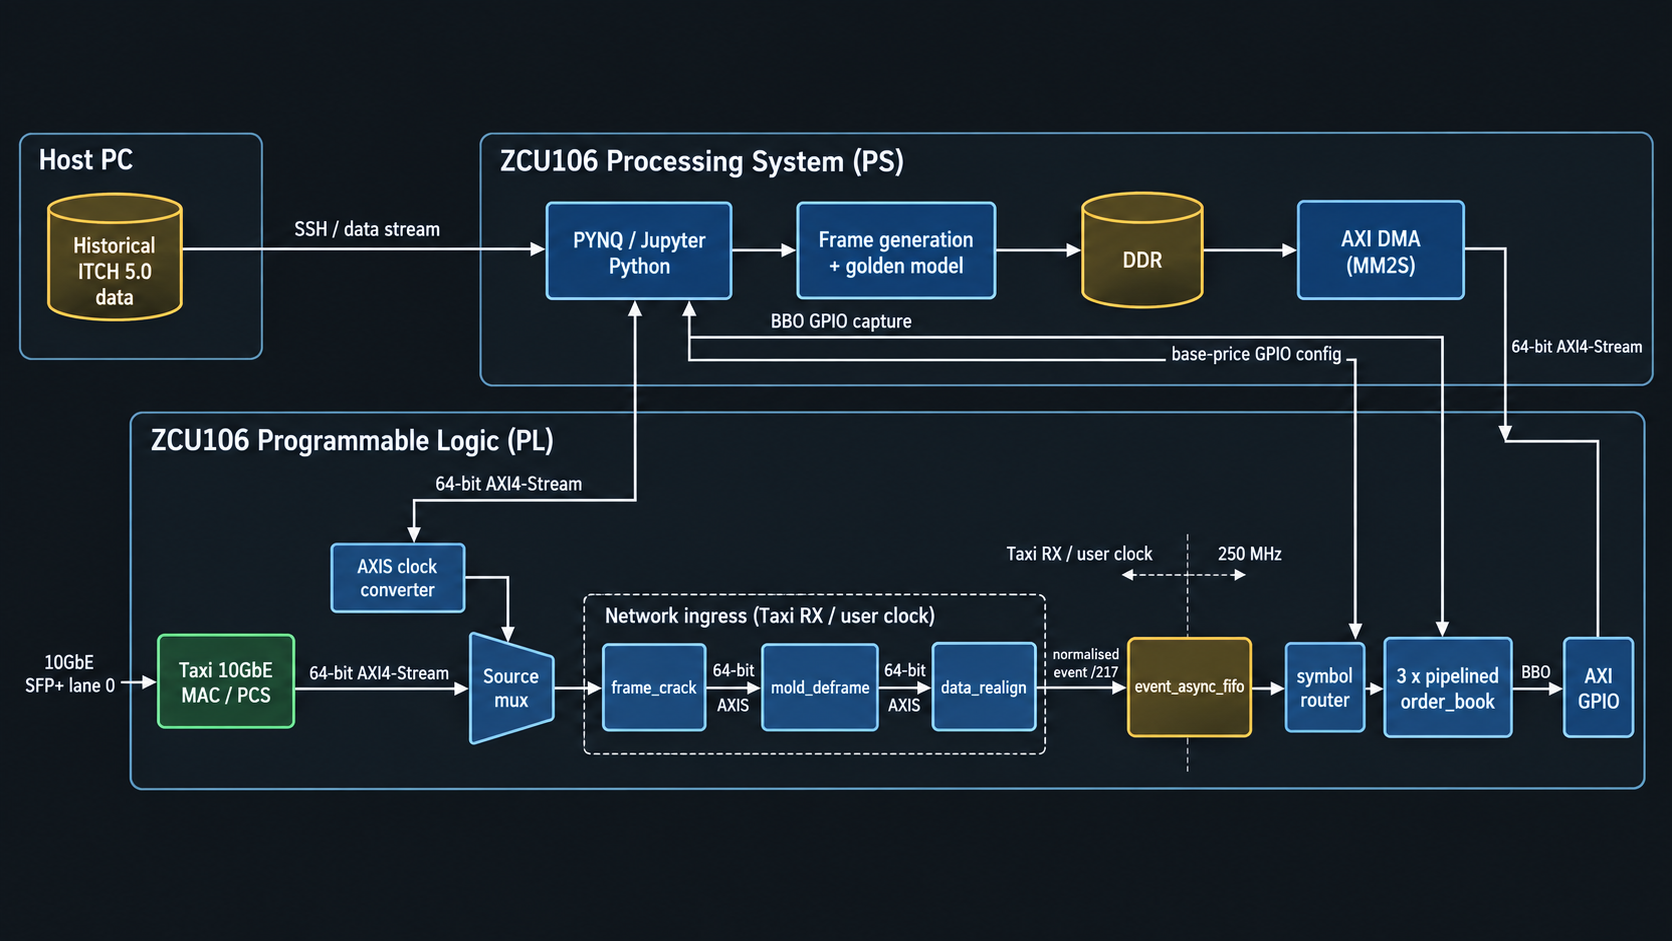
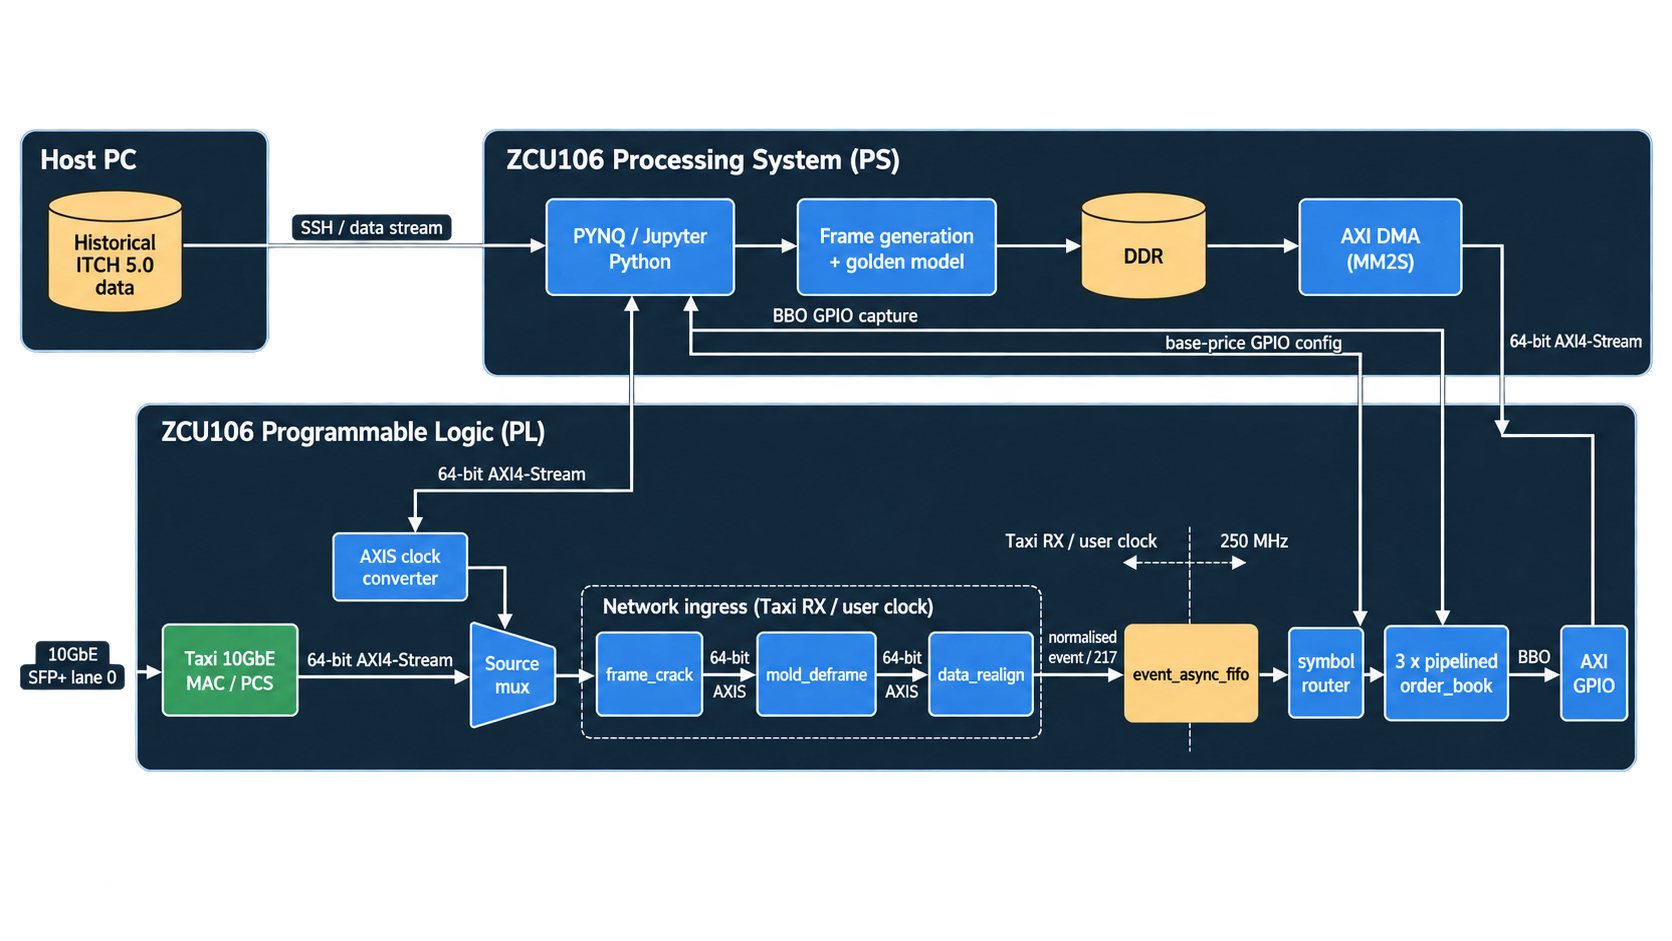
[documentation] diagrams

diff --git a/README.md b/README.md
@@ -57,90 +57,48 @@ The order book allows us to take in ITCH messages and maintain price books and o
 
 We still parse other ITCH messages through much of the ingress, but once we actually get to the decoder, we can throw them away
 
-### Data representation
-
-- ITCH integers are parsed as **big-endian unsigned integers**.
-- ITCH `Price(4)` values are modified in the PS to have a \$0.01 tick
-(rather than the original $0.0001)
-- The RTL price and configured base price use the same integer unit.
-- The hardware price book is a bounded dense window indexed relative to the configured base price.
-- Real multi-symbol data is filtered or routed before it enters an individual hardware book.
-
----
-
-## RTL datapath
-
-Detailed contracts, parsing assumptions, backpressure behaviour, and per-stage responsibilities are documented in [`docs/rtl_datapath.md`](docs/rtl_datapath.md).
-
-| Stage | Responsibility |
-|---|---|
-| `frame_crack` | Validate the supported Ethernet/IPv4/UDP header shape and emit the UDP payload |
-| `mold_deframe` | Parse MoldUDP64 metadata, remove two-byte message-length prefixes and emit packed ITCH payload bytes plus message-length tokens |
-| `mold_seq_guard` | Accept in-order/post-gap packets, suppress duplicates, and report stale/gap state |
-| `data_realign` | Track message boundaries directly in the packed 64-bit payload stream and decode `A/F/E/C/X/D/U` into the normalised event contract |
-| `event_async_fifo` | Cross complete normalised events from the network clock domain into the 250 MHz data/order-book domain |
-| `symbol_router` | Select the configured instrument/book and insert a register boundary |
-| `order_book` | Resolve order references, update aggregate price levels, and emit BBO updates |
-
-The previous separate `realign -> data_handler` path remains useful as a behavioural/reference implementation, but the current packaged Vivado ingress uses the merged `data_realign` path to avoid recreating a padded AXI packet for every ITCH message.
-
-MoldUDP64 sequencing and recovery policy are documented separately in [`docs/moldudp64_seq_handling.md`](docs/moldudp64_seq_handling.md).
-
 ---
 
 ## Golden model and verification
 
-The Python golden model is the functional source of truth. It converts BinaryFILE records into normalised events, replays those events through a reference order book, and writes matched `events.jsonl` and `states.jsonl` oracle streams for RTL comparison.
+We use a Python golden model as the source of truth. We take BinaryFILE records downloaded from the exchange website and turn them into normalised events, and run them through the reference order book. We output jsonl streams to compare to RTL results.
 
-The golden-model architecture, verification layers, current coverage, and remaining proof gaps are consolidated in [`docs/golden_model.md`](docs/golden_model.md). Environment setup is in [`docs/environment.md`](docs/environment.md), and all commands for running the repository are in [`docs/running_the_project.md`](docs/running_the_project.md).
+<picture>
+  <source media="(prefers-color-scheme: dark)" srcset="assets/golden_model_top_dark.png">
+  <source media="(prefers-color-scheme: light)" srcset="assets/golden_model_top_light.png">
+  <img alt="Golden model and RTL testing architecture" src="assets/golden_model_top_light.png">
+</picture>
+
+You can see more in [`docs/golden_model.md`](docs/golden_model.md).
 
 ---
 
-## Vivado and ZCU106 build
+## Vivado build
 
 ### Current block design
 
 ![Current ZCU106 Vivado block design](assets/BD.png)
 
-The hardware build remains modular. The DMA is **MM2S-only** and provides the deterministic replay source, while Taxi provides the real SFP+ Ethernet source. The DMA stream is clock-converted into the Taxi RX/user clock domain before the two sources meet at the static mux.
+The DMA is MM2S-only, Taxi provides the real SFP+ Ethernet source. The DMA stream is clock-converted into the Taxi RX/user clock domain before the two sources meet at the static mux.
 
-The 64-bit network ingress runs from the Taxi RX/user clock. Once a complete normalised event has been decoded, `event_async_fifo` crosses the event into the 250 MHz order-book domain.
-
-### Address map
-
-| Peripheral | Base address | Direction / use |
-|---|---|---|
-| AXI DMA | `0x80040000` | PS control; MM2S frame input |
-| Bid BBO GPIO | `0x80030000` | PL to PS; bid price and shares |
-| Ask BBO GPIO | `0x80020000` | PL to PS; ask price and shares |
-| meta GPIO (valid bit) | `0x80010000` | PL to PS; update indication |
-| Base-price GPIO | `0x80000000` | PS to PL; price-window base |
-| Base-price 2 GPIO | `0x80050000` | PS to PL; price-window base |
-
-> Note that multiple base price GPIOs are used for 2 stocks each
+The 64-bit network ingress runs from the Taxi RX/user clock. Once a complete normalised event has been decoded, the asynchronous FIFO crosses the event into the 250 MHz order-book domain.
 
 ---
 
-## Measured implementation results
+## Implementation Results
 
-Reports on these values can be found in [`implementation_reports`](implementation_reports).
-
-Latest routed build captured on **12th September 2026**:
+You can see the full reports in the `/implementation_reports` folder. Ran on Vivado 2023.2.
 
 | Item | Result |
 |---|---:|
-| Vivado version | 2023.2 |
-| Project | `Feed_Handler_v3.0` |
 | Target board | ZCU106 |
 | SFP+ MGT reference clock | **156.25 MHz / 6.400 ns** |
 | Routed Taxi RX/user clock | **~161.13 MHz / 6.206 ns** |
 | Order Book clock | **250 MHz / 4.000 ns** |
 | WNS | **+0.003   ns** |
-| TNS | **0.000 ns** |
-| WHS | **+0.010 ns** |
-| THS | **0.000 ns** |
 
-All user-specified timing constraints are met and the implementation run completes through bitstream generation.
+
+All constraints are met and we don't have any hold problems.
 
 ### Utilisation
 
@@ -156,56 +114,30 @@ All user-specified timing constraints are met and the implementation run complet
 
 ---
 
-## Latency and throughput design decisions
+## Latency and throughput
 
 The ingress measurements below use the **156.25 MHz** simulation clock used for the native 64-bit line-rate regression. The latest routed Taxi RX/user clock is slightly different, as shown in the implementation table above. The data/order-book domain remains at **250 MHz**.
 
-### Network ingress
+<picture>
+  <source media="(prefers-color-scheme: dark)" srcset="assets/latency_dark.png">
+  <source media="(prefers-color-scheme: light)" srcset="assets/latency_light.png">
+  <img alt="Latency datapath" src="assets/latency_light.png">
+</picture>
 
-| Stage | First output / completion | Sustained behaviour | Current limiter |
-|---|---|---|---|
-| `frame_crack` | UDP/MoldUDP64 forwarding begins after the fixed **42-byte** Ethernet/IPv4/UDP prefix; with 64-bit beats the first payload bytes occur in beat 5 | Up to one **64-bit beat per cycle** after payload streaming begins | Fixed header arrival and the 42-byte-to-8-byte alignment |
-| `mold_deframe` + sequence guard | The 20-byte MoldUDP64 header is decoded across three 64-bit beats before body processing | Parallel body parser handles up to **8 raw bytes/cycle** with registered descriptor/compaction stages | Message-boundary classification and compaction, rather than the old byte-serial parser |
-| `data_realign` | **9 cycles / 57.6 ns** from the final Ethernet beat to the normalised event in the cold-latency sweep | Accepts a complete packed 64-bit payload beat per cycle in the common case and decodes directly to `data_t` | Event-output capacity/backpressure rather than a separate per-message realignment stage |
-| Complete ingress + decode | **19 cycles / 121.6 ns** for `D/X`, **20 / 128.0 ns** for `E`, and **21 / 134.4 ns** for `U/A/C/F` from first Ethernet beat to event | Measured **9.830-9.911 Gbit/s** across the supported message campaigns; all campaigns pass the calculated physical 10GbE wire-rate gate | A small number of zero-gap AXI stress stalls remain around the `frame_crack -> mold_deframe` boundary, but they do not prevent physical 10GbE-rate operation |
-
-The final native-64-bit line-rate campaign measured:
-
-```text
-D:     9.911 Gbit/s
-X:     9.906 Gbit/s
-E:     9.866 Gbit/s
-U:     9.870 Gbit/s
-A:     9.902 Gbit/s
-C:     9.902 Gbit/s
-F:     9.911 Gbit/s
-Mixed: 9.830 Gbit/s
-```
-
-These figures are measured on the AXI frame path while the pass/fail gate accounts for Ethernet preamble/SFD, FCS and inter-frame gap. This is why the required MAC-side rate is slightly below a literal 10.000 Gbit/s for normal Ethernet traffic.
-
-### Decoder and order book
-
-| Stage | Latency | Initiation behaviour | Reason for the decision |
-|---|---|---|---|
-| `data_realign` | Included in the **19-21 cycle** ingress/decode figures above | Direct packed-stream decode avoids the old `realign -> data_handler` per-message bubble | Merging realignment and decode removes duplicated byte movement and improves sustained ingress throughput |
-| `event_async_fifo` | CDC/buffering latency only; no protocol processing | Decouples the fast network domain from the 250 MHz order-book domain | Crossing complete 217-bit events is simpler and lower bandwidth than crossing raw Ethernet data |
-| `symbol_router` | **1 cycle / 4 ns** | Up to one accepted event per cycle when the selected book is ready | The register boundary isolates decoder timing from the book and provides clean routing control |
-| `order_book` | **16-stage pipeline / 64 ns** at 250 MHz | Pipeline latency is separate from initiation rate; successive events can occupy different stages concurrently | Pipelining removes the old state-machine throughput limit while retaining the BRAM-based order and price books |
-
+The current 64-bit ingress sustains approximately **9.83–9.91 Gbit/s**. This is obviously beloy 10Gbit, but actually is suitable once Ethernet framing overhead is accounted for. The Order Book has an II of 4 and runs at 250MHz so can take roughly 62.5M messages/s.
 
 ---
 
 ## Further documentation
 
-- [`docs/environment.md`](docs/environment.md) — host toolchain and Vivado environment setup
+- [`docs/environment.md`](docs/environment.md) — host toolchain and Vivado env setup
 - [`docs/running_the_project.md`](docs/running_the_project.md) — golden-model, cocotb, vector-generation, xsim, formatting, and cleanup commands
 - [`docs/golden_model.md`](docs/golden_model.md) — golden-model architecture and consolidated verification methodology
-- [`docs/rtl_datapath.md`](docs/rtl_datapath.md) — RTL stage contracts, handshakes, and design boundaries
-- [`docs/networking_ingress.md`](docs/networking_ingress.md) — detailed Ethernet/IPv4/UDP/MoldUDP64 ingress behaviour
+- [`docs/rtl_datapath.md`](docs/rtl_datapath.md) — data flow through rtl
+- [`docs/networking_ingress.md`](docs/networking_ingress.md) — network ingress behaviour
 - [`docs/moldudp64_seq_handling.md`](docs/moldudp64_seq_handling.md) — duplicate, gap, stale, heartbeat, and EOS policy
 - [`docs/order_book.md`](docs/order_book.md) — v2 hardware order-book implementation
-- [`docs/pipelined_order_book.md`](docs/pipelined_order_book.md) - v3 varient of the order book specifically
+- [`docs/pipelined_order_book.md`](docs/pipelined_order_book.md) - v3+ varient of the order book specifically
 - [`docs/proccessing_system.md`](docs/processing_system.md) - Processing system used to run the project
 
 ---
@@ -214,23 +146,12 @@ These figures are measured on the AXI frame path while the pass/fail gate accoun
 
 Project-specific software, documentation and independently authored components are provided under the repository's [MIT licence](LICENSE) unless otherwise stated.
 
-The V4.0 FPGA hardware design integrates the [Taxi transport library](https://github.com/fpganinja/taxi), whose core RTL is provided under the **CERN Open Hardware Licence Version 2 - Strongly Reciprocal (CERN-OHL-S-2.0)** unless an individual Taxi file states otherwise.
+We integrate the [Taxi transport library](https://github.com/fpganinja/taxi), whose core RTL is provided under the **CERN Open Hardware Licence Version 2 - Strongly Reciprocal (CERN-OHL-S-2.0)**
 
-The V4.0 licensing scope, third-party attribution and source information are documented in [`releases/v4.0/LICENSE.md`](releases/v4.0/LICENSE.md).
-
----
-
-## Contributors
-
-Built collaboratively by:
-
-- [Anthony Bartlett](https://github.com/an-thony350)
-- [Denzil Erza-Essien](https://github.com/derza-essien)
-
-Both contributors worked across the FPGA architecture, RTL implementation, verification, hardware integration and system bring-up.
+Taxi licensing info can be found in [`releases/v4.0/LICENSE.md`](releases/v4.0/LICENSE.md).
 
 ---
 
 ## Continuous integration
 
-GitHub Actions runs repository checks, deterministic golden-model generation, and the full cocotb/Verilator RTL regression on pushes to `main` and pull requests. A separate performance workflow runs smoke tests for relevant changes and a scheduled full campaign, with oracle, diagnostic, and performance artifacts retained for inspection.
+GitHub Actions runs repository checks, golden-model generation, and the full cocotb/Verilator RTL regression on pushes to main and pull requests. A separate performance workflow runs smoke tests for relevant changes and a scheduled full campaign, with oracle, diagnostic, and performance artifacts retained for inspection.
